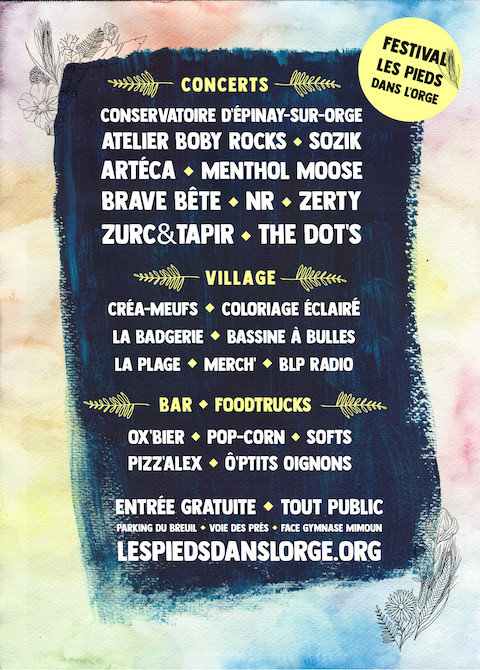
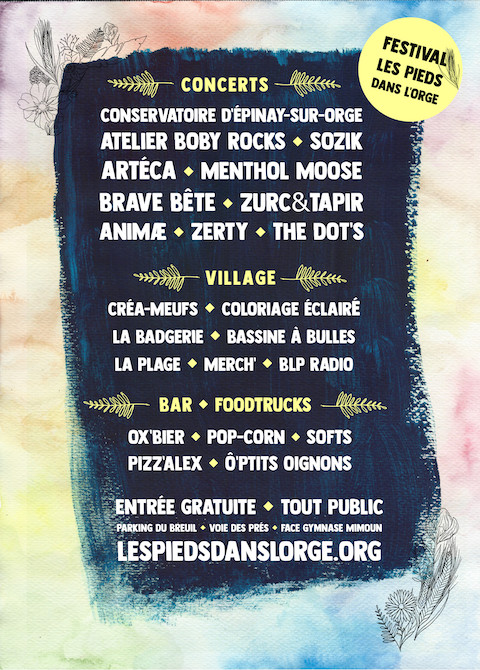
maj lineup

Changed region(s): [[0.1875, 0.1791, 0.7812, 0.3881]]

diff --git a/public/index.html b/public/index.html
@@ -57,7 +57,7 @@
         <h2>Édition 2023</h2>
         <div class="text-center">
           <img src="/img/affiches/2023/affiche-recto.jpg" alt="Les Pieds dans l’Orge" style="box-shadow: 1px 1px 5px #292933"/>
-          <img src="/img/affiches/2023/affiche-verso.jpg?v2" alt="Les Pieds dans l’Orge" style="box-shadow: 1px 1px 5px #292933"/>
+          <img src="/img/affiches/2023/affiche-verso.jpg?v3" alt="Les Pieds dans l’Orge" style="box-shadow: 1px 1px 5px #292933"/>
         </div>
 
         <h2>Le Festival</h2>

diff --git a/public/js/app.js b/public/js/app.js
@@ -85,7 +85,7 @@ function initSmoothScroll() {
 
 function init(year) {
   initSmoothScroll();
-  $.getJSON(`/db/${year}.json`, (json) => {
+  $.getJSON(`/db/${year}.json?v20230501`, (json) => {
     db = json;
     initBlocks(year, 'artiste');
     if (year == 2018 || year == 2019) {
